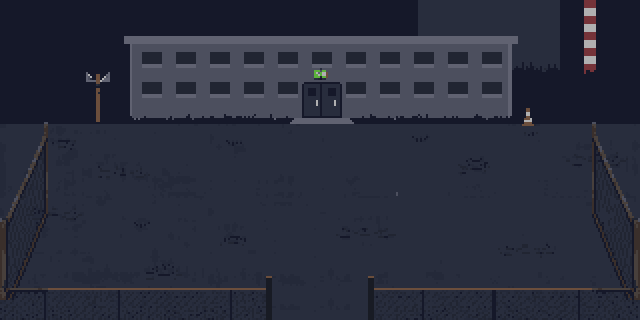
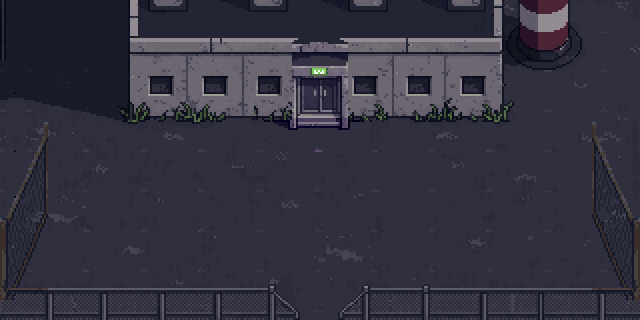
公開版を更新(構内の管理棟、版 422)

diff --git a/field/index.html b/field/index.html
@@ -14,8 +14,8 @@
   <link rel="apple-touch-icon" href="./apple-touch-icon.png">
   <meta name="apple-mobile-web-app-title" content="ぼぎだぢ">
   <meta http-equiv="Cache-Control" content="no-cache">
-  <script src="./fresh.js?v=421"></script>
-  <link rel="stylesheet" href="./style.css?v=421">
+  <script src="./fresh.js?v=422"></script>
+  <link rel="stylesheet" href="./style.css?v=422">
 </head>
 <body>
 
@@ -53,33 +53,33 @@
   <button type="button" id="actionBtnT" class="action-btn action-btn-t" aria-label="時計">TIME</button>
 
 
-  <script src="./audio.js?v=421"></script>
-  <script src="./rpg.js?v=421"></script>
-  <script src="./worlds/common.js?v=421"></script>
-  <script src="./worlds/lake.js?v=421"></script>
-  <script src="./worlds/void.js?v=421"></script>
-  <script src="./worlds/haihei.js?v=421"></script>
-  <script src="./worlds/kasumi.js?v=421"></script>
-  <script src="./worlds/banana.js?v=421"></script>
-  <script src="./worlds/suzuki.js?v=421"></script>
-  <script src="./worlds/takarabune.js?v=421"></script>
-  <script src="./worlds/noroi.js?v=421"></script>
-  <script src="./worlds/noroi_diner.js?v=421"></script>
-  <script src="./worlds/noroi_strip.js?v=421"></script>
-  <script src="./worlds/noroi_race.js?v=421"></script>
-  <script src="./worlds/pinball.js?v=421"></script>
-  <script src="./worlds/padre.js?v=421"></script>
-  <script src="./worlds/kinsei.js?v=421"></script>
-  <script src="./worlds/bomber.js?v=421"></script>
-  <script src="./worlds/finale.js?v=421"></script>
-  <script src="./worlds/index.js?v=421"></script>
-  <script src="./app/layout.js?v=421"></script>
-  <script src="./app/dialog.js?v=421"></script>
-  <script src="./app/game.js?v=421"></script>
-  <script src="./app/status.js?v=421"></script>
-  <script src="./app/title.js?v=421"></script>
-  <script src="./app/watch.js?v=421"></script>
-  <script src="./app/input.js?v=421"></script>
-  <script src="./app/loop.js?v=421"></script>
+  <script src="./audio.js?v=422"></script>
+  <script src="./rpg.js?v=422"></script>
+  <script src="./worlds/common.js?v=422"></script>
+  <script src="./worlds/lake.js?v=422"></script>
+  <script src="./worlds/void.js?v=422"></script>
+  <script src="./worlds/haihei.js?v=422"></script>
+  <script src="./worlds/kasumi.js?v=422"></script>
+  <script src="./worlds/banana.js?v=422"></script>
+  <script src="./worlds/suzuki.js?v=422"></script>
+  <script src="./worlds/takarabune.js?v=422"></script>
+  <script src="./worlds/noroi.js?v=422"></script>
+  <script src="./worlds/noroi_diner.js?v=422"></script>
+  <script src="./worlds/noroi_strip.js?v=422"></script>
+  <script src="./worlds/noroi_race.js?v=422"></script>
+  <script src="./worlds/pinball.js?v=422"></script>
+  <script src="./worlds/padre.js?v=422"></script>
+  <script src="./worlds/kinsei.js?v=422"></script>
+  <script src="./worlds/bomber.js?v=422"></script>
+  <script src="./worlds/finale.js?v=422"></script>
+  <script src="./worlds/index.js?v=422"></script>
+  <script src="./app/layout.js?v=422"></script>
+  <script src="./app/dialog.js?v=422"></script>
+  <script src="./app/game.js?v=422"></script>
+  <script src="./app/status.js?v=422"></script>
+  <script src="./app/title.js?v=422"></script>
+  <script src="./app/watch.js?v=422"></script>
+  <script src="./app/input.js?v=422"></script>
+  <script src="./app/loop.js?v=422"></script>
 </body>
 </html>

diff --git a/field/fresh.js b/field/fresh.js
@@ -1,7 +1,7 @@
 // 古い版が残らないように(ホーム画面に置いたとき、ページそのものが手元に残る)。index.html の中から、このファイルに出した(D301。ページの中に直接書いた script を禁止するため)
 // version.json(毎回取りにいく)の版がこのページとちがえば、URL を変えて読みなおす。版を上げるときは、下の数と version.json と ?v= をそろえる
 (function () {
-  var V = "421";
+  var V = "422";
   var key = "bogidachi.reloadedFor";
   function check(onlyIfSafe) {
     fetch("./version.json?t=" + Date.now(), { cache: "no-store" })
